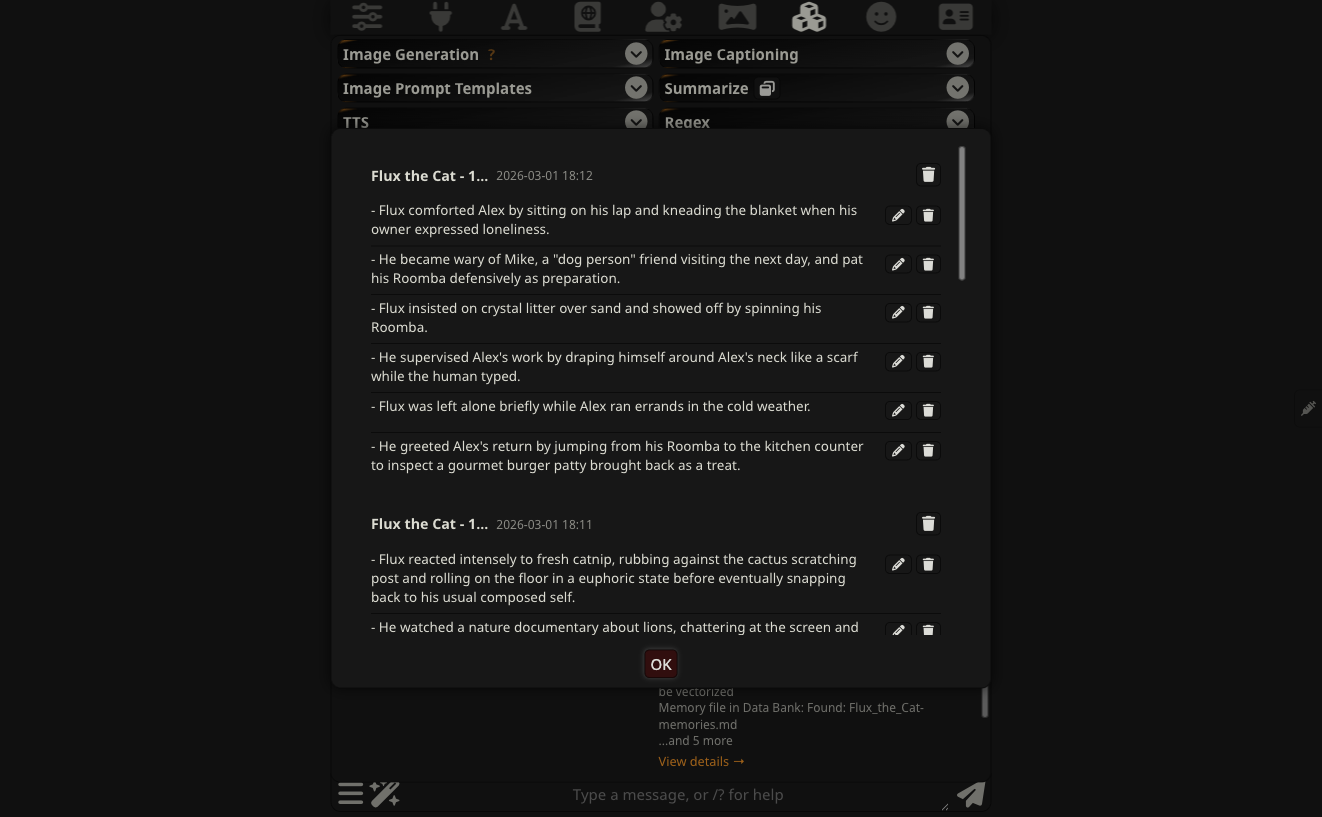
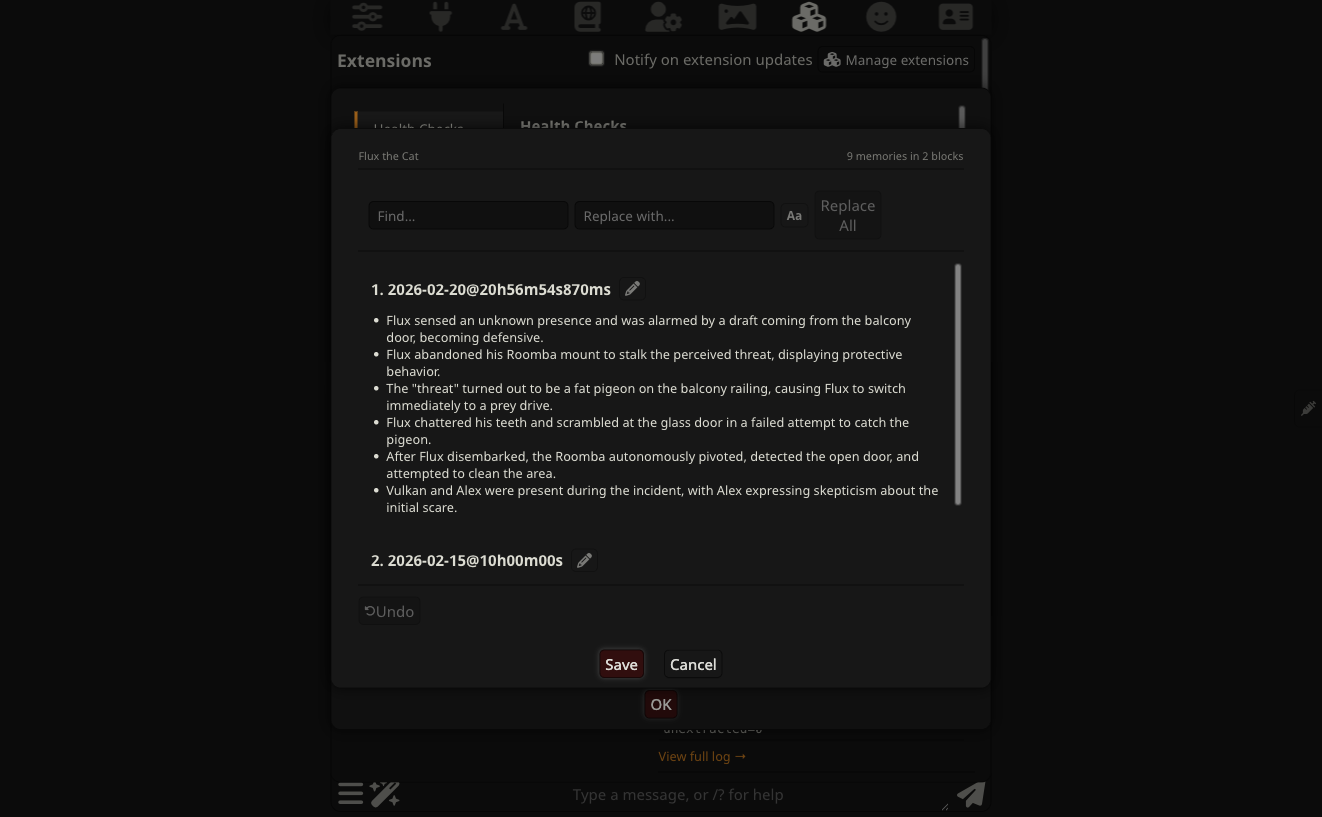
docs: update all documentation and screenshots for v2.1.6 release
- Injection viewer docs: add Context/Prompt Breakdown section, rename
  CharMemory → Data Bank, document token hints and Tips popup
- Managing memories docs: rewrite View/Edit for unified block editor
  with inline editing, undo, Save/Cancel, character picker
- Group chats docs: update Memory Manager from dual-pane to character picker
- Architecture docs: update line counts, editor factory note, section map
- Getting started docs: update memory viewing section for new editor
- Troubleshooting docs: update health checks from 7 to 9, add retrieve
  chunks and score threshold rows
- README: add Prompt Breakdown feature highlight, update upgrade notice,
  clean up tablet/phone bullet
- Screenshots: new injection viewer (with Prompt Breakdown and memories),
  new Memory Manager (unified editor), new editing mode screenshot
- CLAUDE.md: update index.js line count

diff --git a/README.md b/README.md
@@ -2,7 +2,8 @@
 
 CharMemory automatically extracts structured memories from your chats and stores them in the character's Data Bank. SillyTavern's built-in Vector Storage retrieves the most relevant ones at generation time — your character remembers what happened.
 
->**This is a beta release. It contains extensive under the hood code changes, alters the extraction prompts and the structure of the extracted memories. If you used previous versions, you should plan to back up your current files.**
+>**Upgrading from 1.x?**
+This release contains extensive under the hood code changes, alters the extraction prompts and the structure of the extracted memories. If you used previous versions, you should back up your current files before updating and you'll want to compare your edited prompts with the new ones.
 
 ![CharMemory panel open in the SillyTavern sidebar](images/panel-full.png)
 
@@ -28,12 +29,13 @@ CharMemory does not touch your lorebooks so if those contain information about t
 
 - **Automatic extraction** — automatically extracts memories from your current chat. No manual steps after setup.
 - **Group chat support** — each group member gets their own memory file, extracted in a single pass. View and edit all members' memories from one place, including a full Data Bank browser per character.
-- **Injection Viewer** — a real-time sidebar showing exactly which memories were injected for any message, with scores and lorebook context.
+- **Injection Viewer** — a real-time sidebar showing exactly which memories were injected for any message, with lorebook entries, extension prompts, and per-source token estimates.
+- **Prompt Breakdown** — see exactly where your context window is going. The injection viewer shows a per-category token breakdown (System, Char card, Lorebook, Data Bank, Examples, Chat history) with a stacked bar and actionable tips for reducing usage.
 - **Vector Storage health checks** — a traffic-light indicator flags misconfigured settings and tells you what to fix, so you're not guessing why memories aren't showing up.
-- **Full memory control** — browse, edit, or delete individual memories. Consolidate duplicates with preview and undo. Batch-extract from all chats at once.
+- **Full memory control** — browse, edit, or delete individual memories with a unified block editor (inline editing, undo, find/replace). Consolidate duplicates with preview and undo. Batch-extract from all chats at once.
 - **Highly configurable extraction prompts** — separate prompts for 1:1 and group chats and memory file consolidation and conversion.
 - **Guided setup** — the Setup Wizard tests your LLM connection, checks Vector Storage, and handles existing memory file conversion in about 2 minutes.
-- **Tablet & phone support** *(new in 2.1.0 — testing appreciated!)* — on touch devices, the dashboard opens as a floating panel with touch-friendly controls. Phone layout widens drawers for small screens. If auto-detection doesn't match your device, override it in Settings > Advanced > Display Mode. Please [report issues](https://github.com/bal-spec/sillytavern-character-memory/issues) with how it behaves on your device.
+- **Tablet & phone support** — on touch devices, the dashboard opens as a floating panel with touch-friendly controls. Phone layout widens drawers for small screens. If auto-detection doesn't match your device, override it in Settings > Advanced > Display Mode. Please [report issues on GitHub](https://github.com/bal-spec/sillytavern-character-memory/issues) with how it behaves on your device.
 - **Plain files** — memories are stored as readable, editable markdown in the character's Data Bank. No database, no lock-in.
 
 ## What you need
@@ -80,8 +82,8 @@ The documentation uses **Flux** (an orange tabby cat) and **Alex** as fictional 
 
 ## What it looks like
 
-![Memory Manager showing memory cards with topic tags and bullet points](images/memory-manager.png)
+![Memory Manager showing memory cards with find/replace and edit controls](images/memory-manager.png)
 
-![Injection Viewer showing memories injected for the latest message](images/injection-viewer.png)
+![Injection Viewer showing context breakdown, memories, and lorebook entries](images/injection-viewer.png)
 
 ![Data Bank browser showing memory files for multiple group members](images/databank-group.png)

diff --git a/docs/architecture.md b/docs/architecture.md
@@ -20,11 +20,11 @@ The extension writes memories as plain markdown files to the Data Bank. Vector S
 
 | File | Lines | Role |
 |------|------:|------|
-| `index.js` | ~8200 | Main runtime: extraction pipeline, LLM dispatch, all UI (modals, drawers, sidebar), event handlers, provider API calls |
+| `index.js` | ~8660 | Main runtime: extraction pipeline, LLM dispatch, all UI (modals, drawers, sidebar), event handlers, provider API calls |
 | `lib.js` | ~520 | Pure utility functions: parsing, serialization, text processing, format detection. Canonical source — `index.js` imports these at runtime |
 | `editor.js` | ~110 | Memory block editor factory. Pure state management with undo stack — no DOM. Used by preview dialogs |
 | `settings.html` | ~100 | Sidebar dashboard HTML: stats bar, tool buttons, activity log, diagnostics summary |
-| `style.css` | ~1940 | All styling: dashboard, modals, drawers, wizard, troubleshooter, memory cards |
+| `style.css` | ~2160 | All styling: dashboard, modals, drawers, wizard, troubleshooter, memory cards, token budget |
 | `manifest.json` | 12 | Extension metadata: version, load order, entry points |
 
 ### Module relationships
@@ -64,14 +64,14 @@ The file is large. This section-by-section map helps you navigate it. Line numbe
 | 4016–4520 | **Prompts modal** | `showPromptsModal()` — 4-tab prompt editor with version tracking |
 | 4523–5300 | **Setup wizard** | `showSetupWizard()` — 3-step first-run flow |
 | 5306–5935 | **Troubleshooter** | `showTroubleshooter()` — health checks, Data Bank browser, diagnostic report |
-| 5938–6250 | **Memory Manager** | `showMemoryManager()` — browse/edit/delete individual memories |
-| 6254–6340 | **Find & Replace** | `buildFindReplaceBar()`, `wireFindReplaceEvents()`, `highlightText()` |
+| 5938–6500 | **Memory Manager** | `showMemoryManager()` — unified block editor with character picker for groups, inline editing, undo, find/replace |
+| 6500–6590 | **Find & Replace** | `buildFindReplaceBar()`, `wireFindReplaceEvents()`, `highlightText()` |
 | 6344–6820 | **Consolidation** | Strategy presets (conservative/balanced/aggressive), LLM consolidation, preview dialog, undo |
 | 6821–7138 | **Reformat** | Format migration preview dialog, LLM-powered reformat, undo |
 | 7139–7355 | **Slash commands & wiring** | `registerSlashCommands()`, `setupToolControls()`, `setupLogControls()`, `setupListeners()` |
-| 7360–7740 | **Per-message UI** | Extract Here / Pin Memory / View Injected buttons, injection drawer, log drawer |
-| 7753–7960 | **Batch extraction** | `showBatchPopup()`, `runBatchExtraction()` — multi-chat extraction |
-| 7963–8164 | **Initialization** | Extension entry point: loads HTML, calls `loadSettings()`, wires events, auto-triggers wizard on first run |
+| 7360–8000 | **Per-message UI & Injection Viewer** | Extract Here / Pin Memory / View Injected buttons, injection drawer with Context/Prompt Breakdown/token budget panel, log drawer |
+| 8000–8210 | **Batch extraction** | `showBatchPopup()`, `runBatchExtraction()` — multi-chat extraction |
+| 8210–8660 | **Initialization** | Extension entry point: loads HTML, calls `loadSettings()`, wires events, auto-triggers wizard on first run |
 
 ---
 
@@ -150,7 +150,7 @@ countMatches(), findAndReplaceAll()
 
 Every mutation calls `saveVersion()` first, pushing a deep clone onto the undo stack. This makes any operation (including Replace All) undoable as a single step.
 
-Used by the Consolidation, Conversion, Reformat, and Data Bank editor dialogs. The Memory Manager uses its own standalone editing logic since it writes directly to disk per-bullet.
+Used by the Consolidation, Conversion, Reformat, Data Bank editor, and Memory Manager dialogs. All five editing surfaces share this unified editor — inline editing, undo, add/delete, and find/replace work identically everywhere.
 
 ---
 

diff --git a/docs/injection-viewer.md b/docs/injection-viewer.md
@@ -18,25 +18,40 @@ Once open, click the **pen icon** on any character message to load that message'
 
 ## What the viewer shows
 
-The viewer has three collapsible sections:
+The viewer has four collapsible sections:
 
-### CharMemory
+### Context
 
-The memory bullets that Vector Storage retrieved and injected for this generation. The header shows a count (e.g., "CharMemory (6)"). Each bullet is listed individually — this is the direct answer to "what did the character remember when writing this message?"
+The **Context** section appears at the top and loads automatically when you open a message's injection data. It shows a **Prompt Breakdown** — a per-category token breakdown of the full prompt that was sent to the LLM:
+
+- **System** — system prompt tokens
+- **Char card** — character description and personality
+- **Lorebook** — World Info / lorebook entries that fired
+- **Data Bank** — CharMemory's injected memories
+- **Examples** — example dialogue
+- **Chat history** — the actual conversation messages
+
+When SillyTavern's Prompt Itemization data is available (current session), the numbers are exact token counts. For snapshots from previous sessions, the section shows estimated counts based on character length (~4 chars/token) with a note that the numbers are approximate.
+
+A compact **stacked bar** visualizes the proportions at a glance, and a **"Tips"** link opens actionable guidance for reducing token usage across each category.
+
+If tracked injections exceed the model's context window, a **red health note** flags the overflow. If they exceed 40% of context (leaving little room for char card and chat history), a **yellow advisory** appears.
+
+### Data Bank
+
+The memory bullets that Vector Storage retrieved and injected for this generation. The header shows a count and estimated token cost (e.g., "Data Bank (6) ~120 tk"). Each bullet is listed individually — this is the direct answer to "what did the character remember when writing this message?"
 
 If this section is empty but memories exist in the file, Vector Storage either filtered them out (score threshold too high) or didn't find a close enough semantic match. See [Retrieval & Prompts](retrieval-and-prompts.md) for how to tune retrieval.
 
-![CharMemory section expanded showing memory bullets with topic tags](../images/injection-viewer.png)
-
 ### Lorebook Entries
 
-Which World Info / lorebook entries fired for this generation, based on their trigger keywords matching the recent conversation. Each entry shows its name, trigger keys, and a content preview.
+Which World Info / lorebook entries fired for this generation, based on their trigger keywords matching the recent conversation. Each entry shows its name, trigger keys, estimated token cost (~N tk), and a content preview.
 
 If an entry you expected to see isn't listed, its keywords didn't match the recent context window. This section is useful for understanding the full picture — memories and lorebook entries both contribute to what the character "knows," and they can complement or conflict with each other.
 
 ### Extension Prompts
 
-The raw content injected by all active extensions, keyed by injection position (e.g., `4_vectors_data_bank` for Vector Storage, `2_floating_prompt` for Author's Note). This is the unprocessed view — useful for seeing the exact `<memory>` block markup and chunk boundaries that the LLM received.
+Content injected by all active extensions, keyed by injection position (e.g., `4_vectors_data_bank` for Vector Storage, `2_floating_prompt` for Author's Note). Each extension's entry shows its estimated token cost and injection position/depth (e.g., `~340 tk · in-chat @ depth 2`). This is the unprocessed view — useful for seeing the exact `<memory>` block markup and chunk boundaries that the LLM received.
 
 ---
 

diff --git a/docs/managing-memories.md b/docs/managing-memories.md
@@ -8,23 +8,30 @@ This doc covers the tools for working with memories after they've been extracted
 
 Click **View / Edit** in the CharMemory panel to open the Memory Manager.
 
-![Memory Manager showing memory cards with topic tags and edit controls](../images/memory-manager.png)
+![Memory Manager showing memory cards with find/replace bar and Save/Cancel buttons](../images/memory-manager.png)
 
-Memories appear as cards grouped by extraction, newest first. Each card shows the chat it came from, the extraction timestamp, and the individual memory bullets. You can:
+Memories appear as cards grouped by extraction, newest first. Each card shows the extraction timestamp and the individual memory bullets. The Memory Manager uses the same unified block editor as Consolidation, Conversion, Reformat, and the Data Bank browser — so editing works identically everywhere. You can:
 
-- **Edit** any bullet — click the pencil icon, modify the text, save
-- **Delete** any bullet — click the trash icon. Empty cards are removed automatically.
-- **Add a bullet** — click the + button at the bottom of a card
+- **Edit a block** — click the pencil icon on any card header to enter edit mode. Bullets become editable text fields.
+- **Delete a bullet** — click the trash icon next to any bullet in edit mode
+- **Delete a block** — click the trash icon in the block header in edit mode. Removes the entire block.
+- **Add a bullet** — click **+ Add memory** at the bottom of a block in edit mode
+- **Add a block** — click **+ Add Block** at the bottom of the editor
+- **Undo** — click **Undo** to revert the last edit operation (delete, add, or Replace All)
 
-Changes write directly to the memory file in the character's Data Bank. After editing, Vector Storage's index is stale — [purge and re-vectorize](retrieval-and-prompts.md#purge-and-re-vectorize) to update it, or send a new chat message.
+![Memory Manager in edit mode showing editable bullets with delete and add controls](../images/memory-manager-editing.png)
+
+Nothing is written to disk until you click **Save**. Click **Cancel** to discard all changes. After saving, Vector Storage's index is stale — [purge and re-vectorize](retrieval-and-prompts.md#purge-and-re-vectorize) to update it, or send a new chat message.
+
+In group chats, a **character picker** appears at the top — select which member's memories to view and edit.
 
 ### Find & Replace
 
 A find/replace bar appears at the top of the Memory Manager (and in the Consolidation, Conversion, Reformat, and Data Bank editor dialogs). Type in the **Find** field to see matches highlighted across all cards with a live count. Enter replacement text and click **Replace All** to update every occurrence at once.
 
 - **Case sensitive** — click the **Aa** button to toggle case-sensitive matching
-- In the Memory Manager, Replace All writes changes to disk immediately — **back up your memory file first** if replacing across many memories
-- In the Consolidation, Reformat, Conversion, and Data Bank editors, Replace All is undoable (click Undo to revert)
+- Replace All is undoable (click **Undo** to revert) — but once you click **Save**, changes are written to disk and cannot be undone
+- In the Consolidation, Reformat, Conversion, and Data Bank editors, Replace All works the same way with Undo support
 
 ---
 

diff --git a/docs/getting-started.md b/docs/getting-started.md
@@ -114,15 +114,11 @@ Extraction speed will vary based on the number of messages being sent to the LLM
 
 There are a few ways to view your memories — you can open the Data Bank directly and read the raw file, or use the Memory Manager for a more structured view. Click **View / Edit** in the CharMemory panel to open the Memory Manager.
 
-![Memory Manager showing memory cards with topic tags and edit controls](../images/memory-manager.png)
+![Memory Manager showing memory cards with find/replace bar and Save/Cancel buttons](../images/memory-manager.png)
 
-Memories appear as cards grouped by extraction, newest first. Each card shows the chat it came from, the extraction timestamp, and the individual memory bullets. You can:
+Memories appear as cards grouped by extraction, newest first. Each card shows the extraction timestamp and the individual memory bullets. Click the **pencil icon** on any card to enter edit mode — bullets become editable text fields where you can modify, delete, or add new memories. The editor includes **find/replace**, **undo**, and explicit **Save/Cancel** buttons so nothing is written to disk until you confirm. In group chats, a **character picker** lets you switch between members.
 
-- **Edit** any bullet to refine its wording
-- **Delete** individual bullets (empty cards are removed automatically)
-- Browse by scrolling — in group chats, each character has their own section
-
-Memories are stored as a plain markdown file in the character's Data Bank. You can also edit that file directly from the **Data Bank** button in the panel.
+Memories are stored as a plain markdown file in the character's Data Bank. You can also edit that file directly from the **Data Bank** button in the panel. See [Managing Memories](managing-memories.md) for the full editing reference.
 
 ---
 

diff --git a/docs/troubleshooting.md b/docs/troubleshooting.md
@@ -6,15 +6,17 @@ Start with the **health dot** in the CharMemory stats bar — it runs automated 
 
 ## Health checks
 
-The health dot runs up to 7 checks depending on what data is available. Checks 1–5 run immediately when you open a chat. Checks 6–7 run after at least one generation has been captured.
+The health dot runs up to 9 checks depending on what data is available. Checks 1–7 run immediately when you open a chat. Checks 8–9 run after at least one generation has been captured.
 
 | Check | What it looks for | States |
 |-------|-------------------|--------|
 | **Files enabled** | "Enable for files" is on in Vector Storage | RED if off |
-| **Memory file exists** | A memory file is in the character's Data Bank | RED if missing |
+| **Memory file exists** | A memory file is in the character's Data Bank | YELLOW if missing |
 | **File vectorized** | Memory file has been indexed (chunk count > 0) | YELLOW if 0 chunks (resolves on next generation) |
 | **Chunk overlap** | Data Bank overlap setting in Vector Storage | YELLOW if 0% |
-| **Chunk size** | Data Bank chunk size in Vector Storage | YELLOW if outside recommended range |
+| **Chunk size** | Data Bank chunk size vs. average memory block size | YELLOW if outside recommended range |
+| **Retrieve chunks** | Number of chunks Vector Storage retrieves per query | YELLOW if > 5 (recommended: 2–3) |
+| **Score threshold** | Minimum similarity score for retrieval | YELLOW if not set or too low |
 | **Memories injected** | Memory bullets appeared in the last generation | YELLOW if 0 injected (may be normal — score threshold filtering) |
 | **Duplicate detection** | Same bullet appears more than once in injected content | YELLOW if duplicates found |
 

diff --git a/docs/group-chats.md b/docs/group-chats.md
@@ -23,11 +23,9 @@ The group chat uses a **separate extraction prompt** from 1:1 chats. It follows 
 
 ## Viewing and editing group memories
 
-Click **View / Edit** to open the Memory Manager. In a group chat it shows a section per character, each with their own memory cards. Edit and delete controls work the same as in 1:1 — they target the correct character's file based on which section the control is in.
+Click **View / Edit** to open the Memory Manager. In a group chat, a **character picker** appears first — select which member's memories to view and edit. Memory cards for the selected character are displayed with the same editing interface as in 1:1 chats (inline editing, undo, find/replace, Save/Cancel).
 
-![Memory Manager in a group chat showing two character sections](../images/memory-manager-group-both.png)
-
-Newest memory blocks appear first (reverse chronological) within each character's section.
+Newest memory blocks appear first (reverse chronological). Switch between characters using the picker at the top to review or edit each member's memories.
 
 ---
 

diff --git a/CLAUDE.md b/CLAUDE.md
@@ -11,7 +11,7 @@ A SillyTavern extension that automatically extracts structured character memorie
 ## File Structure
 
 ```
-index.js        — All extension logic: extraction, consolidation, provider API calls, UI controllers, event handlers, modals (~7800 lines)
+index.js        — All extension logic: extraction, consolidation, provider API calls, UI controllers, event handlers, modals (~8660 lines)
 lib.js          — Pure utility functions imported by index.js at runtime and used by tests (parsing, serialization, formatting, stripping)
 editor.js       — Shared memory block editor factory (createMemoryEditor) with state management and undo
 settings.html   — Sidebar dashboard HTML (stats bar, extraction controls, tool launchers, activity, diagnostics)
